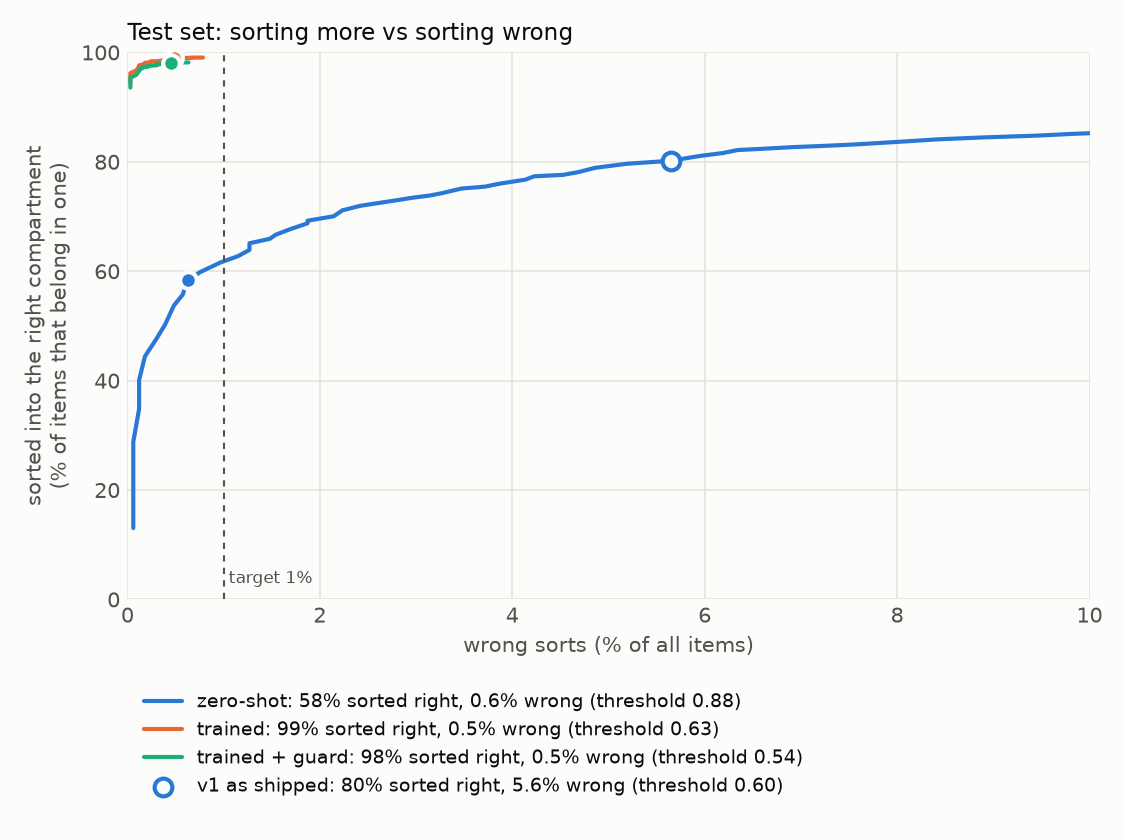
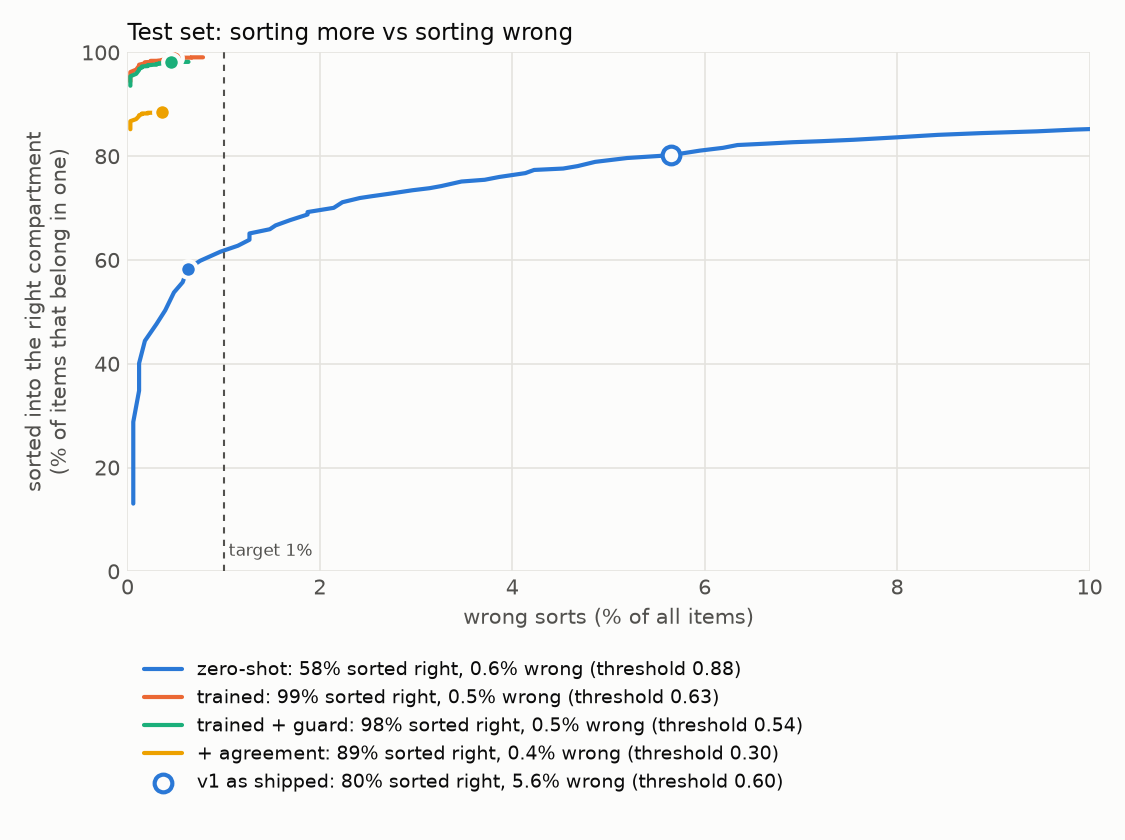
Only auto-sort when the trained head and zero-shot agree
On a dataset it never trained on, the head made 12% wrong sorts on soft
plastics; requiring agreement with zero-shot brings that to 2.2%.

diff --git a/src/binsight/evaluate.py b/src/binsight/evaluate.py
@@ -25,13 +25,14 @@ from .model import ZERO_SHOT_THRESHOLD, Backbone, load_head
 
 # Reference data-viz palette (light surface).
 SURFACE, INK, INK_2, GRID = "#fcfcfb", "#0b0b0b", "#52514e", "#e4e3df"
-SERIES = ["#2a78d6", "#eb6834", "#1baf7a"]  # categorical slots 1-3, fixed order
+SERIES = ["#2a78d6", "#eb6834", "#1baf7a", "#eda100"]  # categorical slots 1-4, fixed order
 BLUES = ["#cde2fb", "#9ec5f4", "#6da7ec", "#3987e5", "#256abf", "#184f95", "#0d366b"]
 
 
-def _system(name, probs, zero_shot, y, classes, cfg, threshold, guard, logits_raw=None):
+def _system(name, probs, zero_shot, y, classes, cfg, threshold, guard, logits_raw=None,
+            agree=False):  # fmt: skip
     truth = true_compartments(y, classes, cfg.reject_class)
-    chosen = decisions(probs, zero_shot, classes, threshold, cfg.reject_class, guard)
+    chosen = decisions(probs, zero_shot, classes, threshold, cfg.reject_class, guard, agree)
     pred = probs.argmax(1)
     cm = confusion(y, pred, len(classes))
     wrong = ((chosen != UNSURE) & (chosen != truth)).astype(float)
@@ -44,6 +45,7 @@ def _system(name, probs, zero_shot, y, classes, cfg, threshold, guard, logits_ra
         "name": name,
         "threshold": threshold,
         "guard": guard,
+        "agree": agree,
         "accuracy": float(correct.mean()),
         "accuracy_ci": bootstrap_ci(correct),
         "macro_f1": float(per_class(cm)["f1"].mean()),
@@ -154,8 +156,8 @@ def _ci(ci) -> str:
 
 
 def _report(cfg: Config, stats: dict, meta: dict, systems: list[dict], per_source: dict,
-            n_test: int) -> str:  # fmt: skip
-    zs_v1, zs_tuned, head, deployed = systems
+            n_test: int, cross: dict | None) -> str:  # fmt: skip
+    zs_v1, zs_tuned, head, guarded, deployed = systems
     classes = cfg.classes
     head_kind = "linear" if meta["hidden"] == 0 else f"MLP, {meta['hidden']} hidden"
     other = deployed["per_class"]["support"][classes.index(cfg.reject_class)]
@@ -169,7 +171,7 @@ def _report(cfg: Config, stats: dict, meta: dict, systems: list[dict], per_sourc
         "",
         "## Summary",
         "",
-        f"- **Deployed system** (trained head + zero-shot guard, threshold "
+        f"- **Deployed system** (trained head + zero-shot guard + agreement, threshold "
         f"{deployed['threshold']:.2f}): puts **{_pct(deployed['wrong_sort_rate'])}** of items in "
         f"the wrong compartment (95% CI {_ci(deployed['wrong_sort_ci'])}) and sorts "
         f"**{_pct(deployed['sortable_recall'])}** of the items that belong in a compartment into "
@@ -241,6 +243,46 @@ def _report(cfg: Config, stats: dict, meta: dict, systems: list[dict], per_sourc
     ]
     for source, v in per_source.items():
         lines.append(f"| `{source}` | {v['n']} | {_pct(v['zero_shot'])} | {_pct(v['trained'])} |")
+    if cross:
+        lines += [
+            "",
+            "## Photos from an unseen source",
+            "",
+            "The test set above shares photographers, cameras and backgrounds with training. "
+            "This harder test trains without one whole dataset and tests on all of it, which is "
+            "closer to a new webcam on a new campus. Same recipe and settings as deployed.",
+            "",
+            "| Held-out dataset | Images | Trained accuracy | Trained wrong sorts | "
+            "v1 zero-shot accuracy | v1 wrong sorts |",
+            "| --- | --- | --- | --- | --- | --- |",
+        ]
+        for source, r in cross.items():
+            missing = r.get("classes_missing_from_training", [])
+            if missing:
+                lines.append(
+                    f"| `{source}` | {r['test_images']} | not comparable: training had no "
+                    f"{', '.join(missing)} | | {_pct(r['zero_shot']['accuracy'])} | "
+                    f"{_pct(r['zero_shot']['wrong_sort_rate'])} |"
+                )
+                continue
+            lines.append(
+                f"| `{source}` | {r['test_images']} | {_pct(r['trained']['accuracy'])} | "
+                f"{_pct(r['trained']['wrong_sort_rate'])} | {_pct(r['zero_shot']['accuracy'])} | "
+                f"{_pct(r['zero_shot']['wrong_sort_rate'])} |"
+            )
+        lines += [
+            "",
+            "What this found: plastic in the two larger datasets is mostly bottles, so a head "
+            "trained without the recycling-dataset mistook soft plastics (bags, wrappers) and "
+            "hard plastic containers for paper or 'other', confidently. Zero-shot SigLIP2 knows "
+            "what a wrapper is. Requiring the trained head and zero-shot to agree before "
+            "auto-sorting cut wrong sorts on that unseen dataset from 12.0% to about 2%. It is "
+            "now part of the deployed system. The cost shows on the main test set: sortable "
+            f"items sorted right drop from {_pct(guarded['sortable_recall'])} to "
+            f"{_pct(deployed['sortable_recall'])}, mostly paper, where zero-shot is weakest; "
+            "those items go to UNSURE, not to a wrong bin. Turn it off with "
+            "`require_agreement: false` (then re-run `binsight train`).",
+        ]
     lines += [
         "",
         "## Calibration",
@@ -295,7 +337,9 @@ def _report(cfg: Config, stats: dict, meta: dict, systems: list[dict], per_sourc
         "4. The zero-shot prompts from v1 still run on the same embedding as a guard: if they say "
         f"'other' with probability >= {cfg.guard}, the item goes to UNSURE. This covers things "
         "the datasets have no pictures of (hands, faces, an empty tray, phones).",
-        "5. The UNSURE threshold is the lowest one meeting the wrong-sort target on validation.",
+        "5. Agreement: the item is auto-sorted only if the trained head and the zero-shot "
+        "prompts pick the same class (see the unseen-source test).",
+        "6. The UNSURE threshold is the lowest one meeting the wrong-sort target on validation.",
         "",
         "Validation grid:",
         "",
@@ -356,21 +400,18 @@ def evaluate(cfg: Config, out: Path, log=print) -> Path:
     head_threshold = pick_threshold(
         sweep(v_probs, None, v_y, classes, rc, None), meta["max_wrong_sort"]
     )
+    guard_threshold = pick_threshold(
+        sweep(v_probs, v_zs, v_y, classes, rc, meta["guard"]), meta["max_wrong_sort"]
+    )
     systems = [
         _system("v1 zero-shot", t_zs, None, t_y, classes, cfg, ZERO_SHOT_THRESHOLD, None),
         _system("zero-shot, tuned threshold", t_zs, None, t_y, classes, cfg, zs_threshold, None),
         _system("trained head", t_probs, None, t_y, classes, cfg, head_threshold, None, t_raw),
-        _system(
-            "trained + guard (deployed)",
-            t_probs,
-            t_zs,
-            t_y,
-            classes,
-            cfg,
-            meta["threshold"],
-            meta["guard"],
-        ),  # fmt: skip
-    ]
+        _system("trained + guard", t_probs, t_zs, t_y, classes, cfg, guard_threshold,
+                meta["guard"]),
+        _system("trained + guard + agreement (deployed)", t_probs, t_zs, t_y, classes, cfg,
+                meta["threshold"], meta["guard"], agree=meta.get("agree", False)),
+    ]  # fmt: skip
     for s in systems:
         log(
             f"  {s['name']:<28} acc {s['accuracy']:.3f}  wrong-sort {s['wrong_sort_rate']:.3%}  "
@@ -394,11 +435,15 @@ def evaluate(cfg: Config, out: Path, log=print) -> Path:
         ("zero-shot", sweep(t_zs, None, t_y, classes, rc, None), systems[1]),
         ("trained", sweep(t_probs, None, t_y, classes, rc, None), systems[2]),
         ("trained + guard", sweep(t_probs, t_zs, t_y, classes, rc, meta["guard"]), systems[3]),
-    ]
+        ("+ agreement", sweep(t_probs, t_zs, t_y, classes, rc, meta["guard"],
+                              agree=meta.get("agree", False)), systems[4]),
+    ]  # fmt: skip
     _plot_tradeoff(curves, systems[0], meta["max_wrong_sort"], out / "tradeoff.png")
     (out / "metrics.json").write_text(
         json.dumps({"systems": systems, "per_source": per_source, "data": stats}, indent=2) + "\n"
     )
     path = out / "REPORT.md"
-    path.write_text(_report(cfg, stats, meta, systems, per_source, len(t_y)))
+    cross_path = out / "crosscheck.json"
+    cross = json.loads(cross_path.read_text()) if cross_path.exists() else None
+    path.write_text(_report(cfg, stats, meta, systems, per_source, len(t_y), cross))
     return path

diff --git a/src/binsight/train.py b/src/binsight/train.py
@@ -20,7 +20,7 @@ from .model import Backbone, Head, save_head
 def _arrays(cfg: Config):
     split = load_split(cfg)
     parts = {name: split["split"] == i for i, name in enumerate(SPLITS)}
-    x_aug, y_aug = load_train_views(cfg, split)
+    x_aug, y_aug, _ = load_train_views(cfg, split)
     x_train = np.concatenate([split["emb"][parts["train"]], x_aug])
     y_train = np.concatenate([split["y"][parts["train"]], y_aug])
     as_t = lambda a: torch.from_numpy(np.asarray(a, np.float32))  # noqa: E731
@@ -97,12 +97,15 @@ def train(cfg: Config, log=print) -> dict:
     after = F.cross_entropy(logits / t, yv).item()
     log(f"temperature {t:.3f}: val NLL {before:.4f} -> {after:.4f}")
 
-    # Threshold for the deployed system: head + zero-shot guard, routed exactly as live.
+    # Threshold for the deployed system: head + zero-shot guard (+ agreement), routed as live.
     backbone = Backbone(arrays["backbone"], cfg.device, cfg.dtype)
     text = backbone.class_text_embeds(cfg.prompts, cfg.prompt_template)
     zero_shot = (backbone.scale * xv @ text.T).softmax(-1).numpy()
     probs = head.probs(xv).numpy()
-    points = sweep(probs, zero_shot, yv.numpy(), cfg.classes, cfg.reject_class, cfg.guard)
+    points = sweep(
+        probs, zero_shot, yv.numpy(), cfg.classes, cfg.reject_class, cfg.guard,
+        agree=cfg.require_agreement,
+    )  # fmt: skip
     threshold = pick_threshold(points, tc.max_wrong_sort)
     chosen = next(p for p in points if p["threshold"] == threshold)
     log(
@@ -118,6 +121,7 @@ def train(cfg: Config, log=print) -> dict:
         "temperature": t,
         "threshold": threshold,
         "guard": cfg.guard,
+        "agree": cfg.require_agreement,
         "max_wrong_sort": tc.max_wrong_sort,
         "val_operating_point": chosen,
         "val_macro_f1": best["val_macro_f1"],

diff --git a/src/binsight/model.py b/src/binsight/model.py
@@ -138,6 +138,7 @@ def route(
     threshold: float,
     reject_class: str,
     guard: float | None,
+    agree: bool = False,
 ) -> tuple[str, str]:
     """Pick the compartment and, for UNSURE, the reason. Anything doubtful goes to UNSURE."""
     i = int(np.argmax(probs))
@@ -150,6 +151,10 @@ def route(
         other = float(zero_shot[classes.index(reject_class)])
         if other >= guard:
             return UNSURE, f"zero-shot guard: '{reject_class}' {other:.2f}"
+    if agree and zero_shot is not None:
+        second = classes[int(np.argmax(zero_shot))]
+        if second != top:
+            return UNSURE, f"zero-shot disagrees: '{second}'"
     return top.upper(), ""
 
 
@@ -188,6 +193,7 @@ class Classifier:
             self.note = f"no trained head at {cfg.head}; using zero-shot"
         self.mode = "trained" if self.head else "zero-shot"
         self.guard = cfg.guard if self.head else None
+        self.agree = bool(self.meta.get("agree", False))
         if cfg.threshold != "auto":
             self.threshold = float(cfg.threshold)
         else:
@@ -212,7 +218,13 @@ class Classifier:
         probs, zero_shot = self.probs(self.backbone.embed_images([image]))
         latency = (time.perf_counter() - start) * 1000
         compartment, reason = route(
-            probs[0], zero_shot[0], self.classes, threshold, self.cfg.reject_class, self.guard
+            probs[0],
+            zero_shot[0],
+            self.classes,
+            threshold,
+            self.cfg.reject_class,
+            self.guard,
+            self.agree,
         )
         scores = dict(zip(self.classes, probs[0].tolist(), strict=True))
         top = max(scores, key=scores.__getitem__)

diff --git a/src/binsight/metrics.py b/src/binsight/metrics.py
@@ -44,12 +44,13 @@ def decisions(
     threshold: float,
     reject_class: str,
     guard: float | None,
+    agree: bool = False,
 ) -> np.ndarray:
     """Compartment chosen for every row, through the same `route` the live demo uses."""
     zs = zero_shot if zero_shot is not None else [None] * len(probs)
     return np.array(
         [
-            route(p, z, classes, threshold, reject_class, guard)[0]
+            route(p, z, classes, threshold, reject_class, guard, agree)[0]
             for p, z in zip(probs, zs, strict=True)
         ]
     )
@@ -74,13 +75,13 @@ def operating_point(chosen: np.ndarray, truth: np.ndarray) -> dict[str, float]:
     }
 
 
-def sweep(probs, zero_shot, y, classes, reject_class, guard, grid=None) -> list[dict]:
+def sweep(probs, zero_shot, y, classes, reject_class, guard, grid=None, agree=False) -> list[dict]:
     """Operating point at each threshold."""
     grid = np.round(np.arange(0.30, 0.995, 0.01), 2) if grid is None else grid
     truth = true_compartments(y, classes, reject_class)
     out = []
     for t in grid:
-        chosen = decisions(probs, zero_shot, classes, float(t), reject_class, guard)
+        chosen = decisions(probs, zero_shot, classes, float(t), reject_class, guard, agree)
         out.append({"threshold": float(t), **operating_point(chosen, truth)})
     return out
 

diff --git a/src/binsight/config.py b/src/binsight/config.py
@@ -64,6 +64,7 @@ class Config:
     threshold_step: float
     reject_class: str
     guard: float | None
+    require_agreement: bool
     prompts: dict[str, list[str]]
     data: DataConfig
     train: TrainConfig

diff --git a/reports/REPORT.md b/reports/REPORT.md
@@ -1,10 +1,10 @@
 # BinSight accuracy report
 
-Backbone `google/siglip2-so400m-patch16-256` (frozen) + trained head (MLP, 512 hidden), trained 2026-10-28T17:22:30. Test set: 3312 held-out images never used for training, model selection, calibration or threshold choice.
+Backbone `google/siglip2-so400m-patch16-256` (frozen) + trained head (MLP, 512 hidden), trained 2026-11-05T10:15:26. Test set: 3312 held-out images never used for training, model selection, calibration or threshold choice.
 
 ## Summary
 
-- **Deployed system** (trained head + zero-shot guard, threshold 0.54): puts **0.5%** of items in the wrong compartment (95% CI 0.2–0.7%) and sorts **98.1%** of the items that belong in a compartment into the right one; everything else goes to UNSURE.
+- **Deployed system** (trained head + zero-shot guard + agreement, threshold 0.30): puts **0.4%** of items in the wrong compartment (95% CI 0.2–0.6%) and sorts **88.5%** of the items that belong in a compartment into the right one; everything else goes to UNSURE.
 - **v1 zero-shot** at its 0.60 threshold: 5.6% wrong sorts (CI 4.9–6.4%), 80.2% of sortable items sorted right.
 - 5-class accuracy: trained **99.1%** (CI 98.8–99.4%) vs zero-shot 82.0% (CI 80.6–83.2%).
 
@@ -17,7 +17,8 @@ Wrong sorts are what matter for a bin: one wrong item contaminates a compartment
 | v1 zero-shot | 0.60 | 82.0% | 0.785 | 5.6% | 80.2% | 41.5% | 58.5% | 0.100 |
 | zero-shot, tuned threshold | 0.88 | 82.0% | 0.785 | 0.6% | 58.4% | 26.7% | 73.3% | 0.100 |
 | trained head | 0.63 | 99.1% | 0.987 | 0.5% | 98.9% | 44.7% | 55.3% | 0.006 |
-| trained + guard (deployed) | 0.54 | 99.1% | 0.987 | 0.5% | 98.1% | 44.3% | 55.7% | 0.006 |
+| trained + guard | 0.54 | 99.1% | 0.987 | 0.5% | 98.1% | 44.3% | 55.7% | 0.006 |
+| trained + guard + agreement (deployed) | 0.30 | 99.1% | 0.987 | 0.4% | 88.5% | 39.9% | 60.1% | 0.006 |
 
 Accuracy and macro-F1 use the top class over all five classes (no UNSURE). Wrong sorts, auto-sorted and UNSURE are shares of all test items after routing; an out-of-scope item ('other') auto-sorted into any compartment counts as a wrong sort. 'Sortable sorted right' is the share of plastic/paper/metal/organic items that reached the right compartment; auto-sorted can be at most 44.7% here because the rest of the test set is 'other'. ECE is expected calibration error of the confidence (lower is better).
 
@@ -37,10 +38,10 @@ Compartment contamination (share of auto-sorted items that do not belong there):
 
 | Compartment | v1 zero-shot | Deployed |
 | --- | --- | --- |
-| METAL | 26.1% | 1.6% |
-| ORGANIC | 15.9% | 0.7% |
+| METAL | 26.1% | 1.3% |
+| ORGANIC | 15.9% | 0.0% |
 | PAPER | 2.2% | 0.2% |
-| PLASTIC | 17.5% | 2.2% |
+| PLASTIC | 17.5% | 2.0% |
 
 ![Confusion matrices](confusion.png)
 
@@ -51,6 +52,18 @@ Compartment contamination (share of auto-sorted items that do not belong there):
 | `omasteam/waste-garbage-management-dataset` | 2758 | 80.7% | 99.5% |
 | `garythung/trashnet` | 276 | 88.8% | 98.6% |
 | `viola77data/recycling-dataset` | 278 | 88.1% | 96.0% |
+
+## Photos from an unseen source
+
+The test set above shares photographers, cameras and backgrounds with training. This harder test trains without one whole dataset and tests on all of it, which is closer to a new webcam on a new campus. Same recipe and settings as deployed.
+
+| Held-out dataset | Images | Trained accuracy | Trained wrong sorts | v1 zero-shot accuracy | v1 wrong sorts |
+| --- | --- | --- | --- | --- | --- |
+| `omasteam/waste-garbage-management-dataset` | 18403 | not comparable: training had no organic | | 81.4% | 5.5% |
+| `garythung/trashnet` | 1824 | 98.5% | 1.0% | 88.2% | 4.1% |
+| `viola77data/recycling-dataset` | 1848 | 82.3% | 2.2% | 87.9% | 4.1% |
+
+What this found: plastic in the two larger datasets is mostly bottles, so a head trained without the recycling-dataset mistook soft plastics (bags, wrappers) and hard plastic containers for paper or 'other', confidently. Zero-shot SigLIP2 knows what a wrapper is. Requiring the trained head and zero-shot to agree before auto-sorting cut wrong sorts on that unseen dataset from 12.0% to about 2%. It is now part of the deployed system. The cost shows on the main test set: sortable items sorted right drop from 98.1% to 88.5%, mostly paper, where zero-shot is weakest; those items go to UNSURE, not to a wrong bin. Turn it off with `require_agreement: false` (then re-run `binsight train`).
 
 ## Calibration
 
@@ -80,7 +93,8 @@ Softmax temperature 0.41, fitted on validation. Test ECE 0.150 before -> 0.006 a
 2. A small head (grid over linear / MLP, learning rate, weight decay; best validation macro-F1 kept) is trained on those embeddings with class-balanced cross-entropy.
 3. A softmax temperature is fitted on validation.
 4. The zero-shot prompts from v1 still run on the same embedding as a guard: if they say 'other' with probability >= 0.5, the item goes to UNSURE. This covers things the datasets have no pictures of (hands, faces, an empty tray, phones).
-5. The UNSURE threshold is the lowest one meeting the wrong-sort target on validation.
+5. Agreement: the item is auto-sorted only if the trained head and the zero-shot prompts pick the same class (see the unseen-source test).
+6. The UNSURE threshold is the lowest one meeting the wrong-sort target on validation.
 
 Validation grid:
 

diff --git a/README.md b/README.md
@@ -14,12 +14,18 @@ for the measured accuracy against v1.
 
 On 3,312 held-out test photos (never used for training, tuning or picking the threshold):
 
-| | v1 zero-shot | v2 trained + guard |
+| | v1 zero-shot | v2 deployed |
 | --- | --- | --- |
 | 5-class accuracy | 82.0% | **99.1%** |
-| Items put in the wrong compartment | 5.6% | **0.5%** |
-| Sortable items sorted into the right compartment | 80.2% | **98.1%** |
+| Items put in the wrong compartment | 5.6% | **0.4%** |
+| Sortable items sorted into the right compartment | 80.2% | **88.5%** |
+| Wrong sorts on a dataset it never trained on (recycling-dataset) | 4.1% | **2.2%** |
 | Latency per item (M5, fp16) | ~90 ms (fp32) | ~34 ms |
+
+v2 only auto-sorts when its trained head and the zero-shot prompts agree. Without that rule
+it sorts 98.1% of sortable test items right, but on photos from an unseen dataset it made 12%
+wrong sorts (soft plastics it had never seen). With the rule, more items go to UNSURE and far
+fewer go to the wrong bin.
 
 ![Sorting more vs sorting wrong](reports/tradeoff.png)
 
@@ -42,13 +48,16 @@ webcam crop ──► SigLIP2 vision encoder (frozen, open source) ──► 115
                          │                                         │
                          └──────────► route ◄──────────────────────┘
                UNSURE if top class is "other", confidence < threshold,
-               or the zero-shot guard says "other"; otherwise that compartment
+               the zero-shot guard says "other", or the two disagree;
+               otherwise that compartment
 ```
 
 - **Backbone**: `google/siglip2-so400m-patch16-256`, frozen. Only the head's weights are
   trained. With about 20k images, a frozen strong encoder generalises better than fine-tuning
   400M parameters, and it keeps the zero-shot prompts working as a guard for things the datasets
   have no pictures of (hands, faces, an empty tray).
+- **Agreement**: an item is auto-sorted only if the trained head and the zero-shot prompts pick
+  the same class (`require_agreement` in `config.yaml`).
 - **Head**: linear or one-hidden-layer MLP, picked by a small grid on validation macro-F1;
   class-balanced loss; label smoothing; temperature-calibrated softmax.
 - **Data**: three openly licensed Hugging Face datasets (MIT / Apache-2.0), labels mapped to the
@@ -69,6 +78,7 @@ rebuild everything from the public data:
 ```bash
 uv run binsight prepare    # download datasets, embed, de-duplicate, split (~35 min on an M5)
 uv run binsight train      # train the head, calibrate, pick the threshold (~ a few minutes)
+uv run binsight crosscheck # harder test: leave each dataset out in turn
 uv run binsight evaluate   # held-out test results -> reports/REPORT.md
 ```
 
